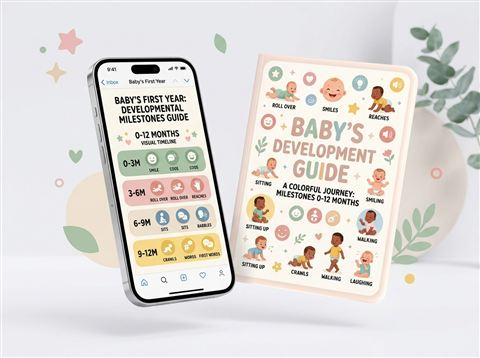
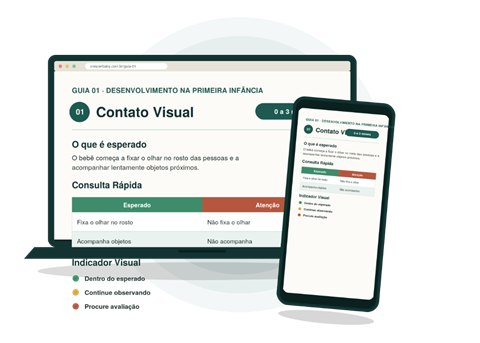
fix: atualiza imagem do mockup do produto com o novo design do notebook+celular e ajusta referencias de texto

diff --git a/index.html b/index.html
@@ -298,9 +298,9 @@
             src="mockup-480.jpg"
             srcset="mockup-480.jpg 480w, mockup-800.jpg 800w"
             sizes="(max-width:840px) 480px, 800px"
-            alt="Mockup do Guia Interativo no Celular e PDF"
+            alt="Mockup do Guia Digital no Celular e Computador"
             width="480"
-            height="358"
+            height="343"
             loading="eager"
             fetchpriority="high"
             class="hero__img"
